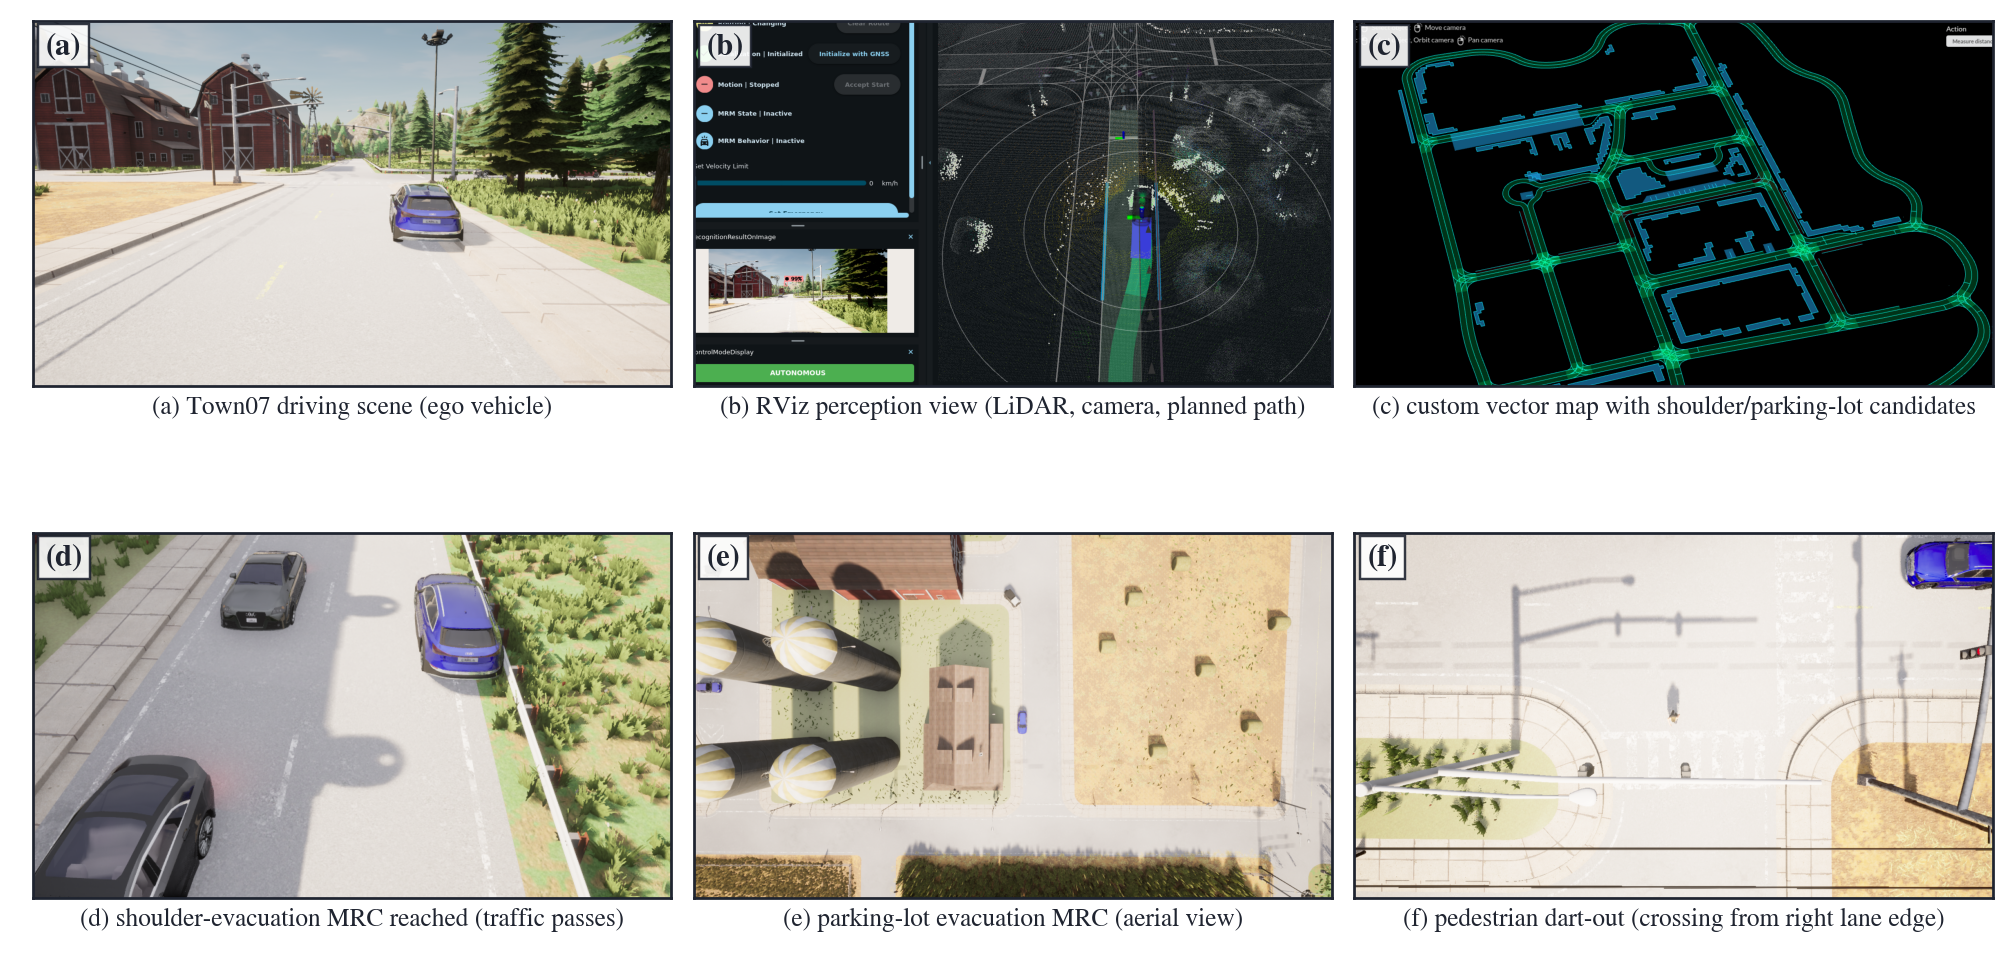
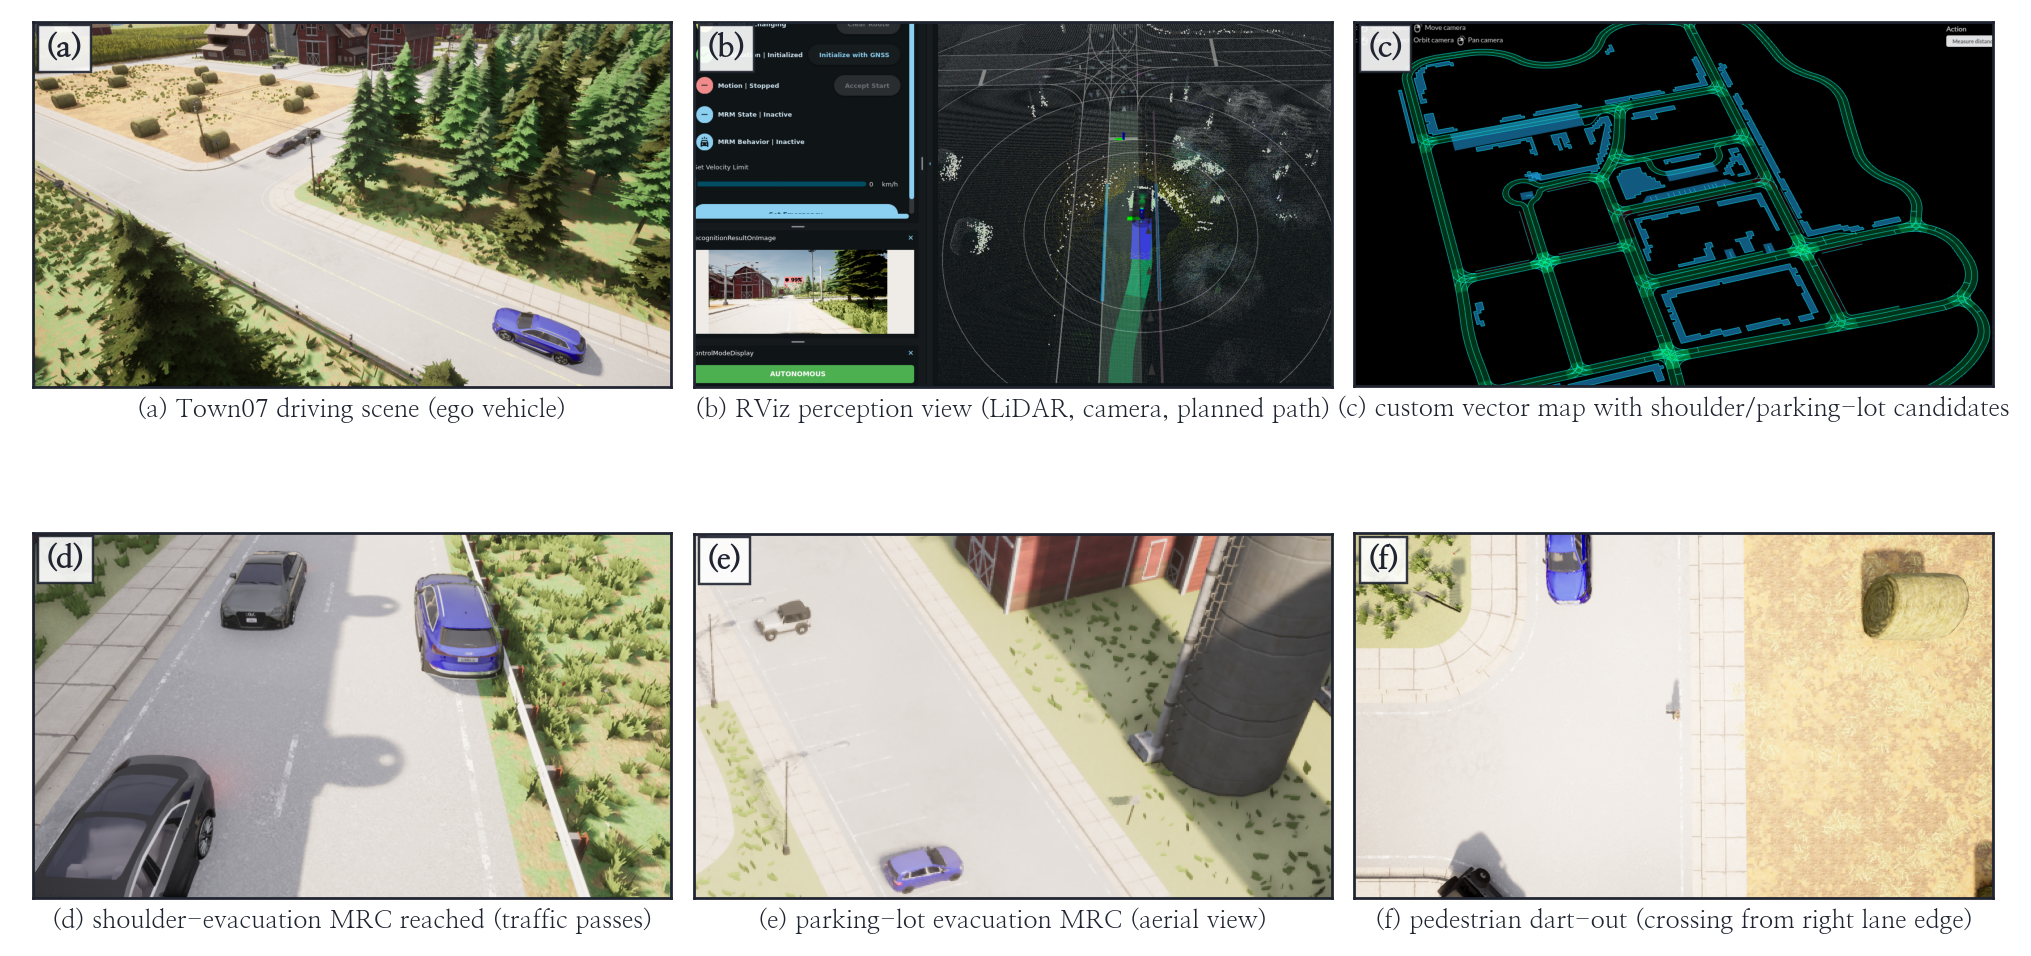
fig_scene_panels_en: (a) true nominal driving aerial (KT_06), (e) real parking-lot aerial from 8/10 demo (K16), (f) ped frame P6; panel assets vendored into src/assets/scene
Claude-Session: https://claude.ai/code/session_01NtLkxt91PCkwwW6kGTEs5W

diff --git a/doc/figs/src/fig_scene_panels_en.py b/doc/figs/src/fig_scene_panels_en.py
@@ -1,0 +1,63 @@
+#!/usr/bin/env python3
+"""fig_scene_panels_en.png — representative scene panels, 2x3 (English).
+0826 panel swap per user's picks: (a) KT_06 aerial driving (was a shoulder scene),
+(e) real parking-lot aerial (K16, 8/10 demo; previous image was a shoulder),
+(f) ped frame P6 (ped_centered_1786785303). Assets copied to assets/scene/."""
+import os, sys
+sys.path.insert(0, '/home/taewook/autoware_carla_leaderboard/experiments/analysis')
+import figstyle
+import matplotlib
+matplotlib.use('Agg')
+matplotlib.rcParams['font.family'] = ['STIXGeneral']
+import matplotlib.pyplot as plt
+from PIL import Image
+
+HERE = os.path.dirname(os.path.abspath(__file__))
+A = f'{HERE}/assets/scene'
+OUT = '/home/taewook/autoware_carla_leaderboard/doc/figs/en/fig_scene_panels_en.png'
+ASPECT = 1.75
+
+PANELS = [
+    (f'{A}/kt06_driving.png', None,
+     '(a)', 'Town07 driving scene (ego vehicle)'),
+    (f'{A}/rviz.png', (0, 136, 1309, 884),
+     '(b)', 'RViz perception view (LiDAR, camera, planned path)'),
+    (f'{A}/vectormap.png', (100, 195, 1386, 930),
+     '(c)', 'custom vector map with shoulder/parking-lot candidates'),
+    (f'{A}/shoulder.png', None,
+     '(d)', 'shoulder-evacuation MRC reached (traffic passes)'),
+    (f'{A}/parking_aerial.png', (0, 140, 488, 419),
+     '(e)', 'parking-lot evacuation MRC (aerial view)'),
+    (f'{A}/ped.png', None,
+     '(f)', 'pedestrian dart-out (crossing from right lane edge)'),
+]
+
+def crop_aspect(im, box=None, aspect=ASPECT):
+    if box:
+        im = im.crop(box)
+    w, h = im.size
+    if w / h > aspect:
+        nw = int(h * aspect); x0 = (w - nw) // 2
+        im = im.crop((x0, 0, x0 + nw, h))
+    else:
+        nh = int(w / aspect); y0 = (h - nh) // 2
+        im = im.crop((0, y0, w, y0 + nh))
+    return im
+
+figstyle.apply()
+fig, axes = plt.subplots(2, 3, figsize=(9.0, 4.4))
+fig.subplots_adjust(wspace=0.035, hspace=0.30, left=0.005, right=0.995,
+                    top=0.99, bottom=0.055)
+for ax, (path, box, label, cap) in zip(axes.flat, PANELS):
+    im = crop_aspect(Image.open(path).convert('RGB'), box)
+    ax.imshow(im)
+    ax.set_xticks([]); ax.set_yticks([]); ax.grid(False)
+    for s in ax.spines.values():
+        s.set_edgecolor(figstyle.INK); s.set_linewidth(0.9)
+    ax.text(0.02, 0.97, label, transform=ax.transAxes, ha='left', va='top',
+            fontsize=10, fontweight='bold', color=figstyle.INK,
+            bbox=dict(boxstyle='square,pad=0.25', fc='white',
+                      ec=figstyle.INK, lw=0.8, alpha=0.9))
+    ax.set_xlabel('%s %s' % (label, cap), fontsize=8.3, labelpad=3)
+fig.savefig(OUT)
+print('saved')
